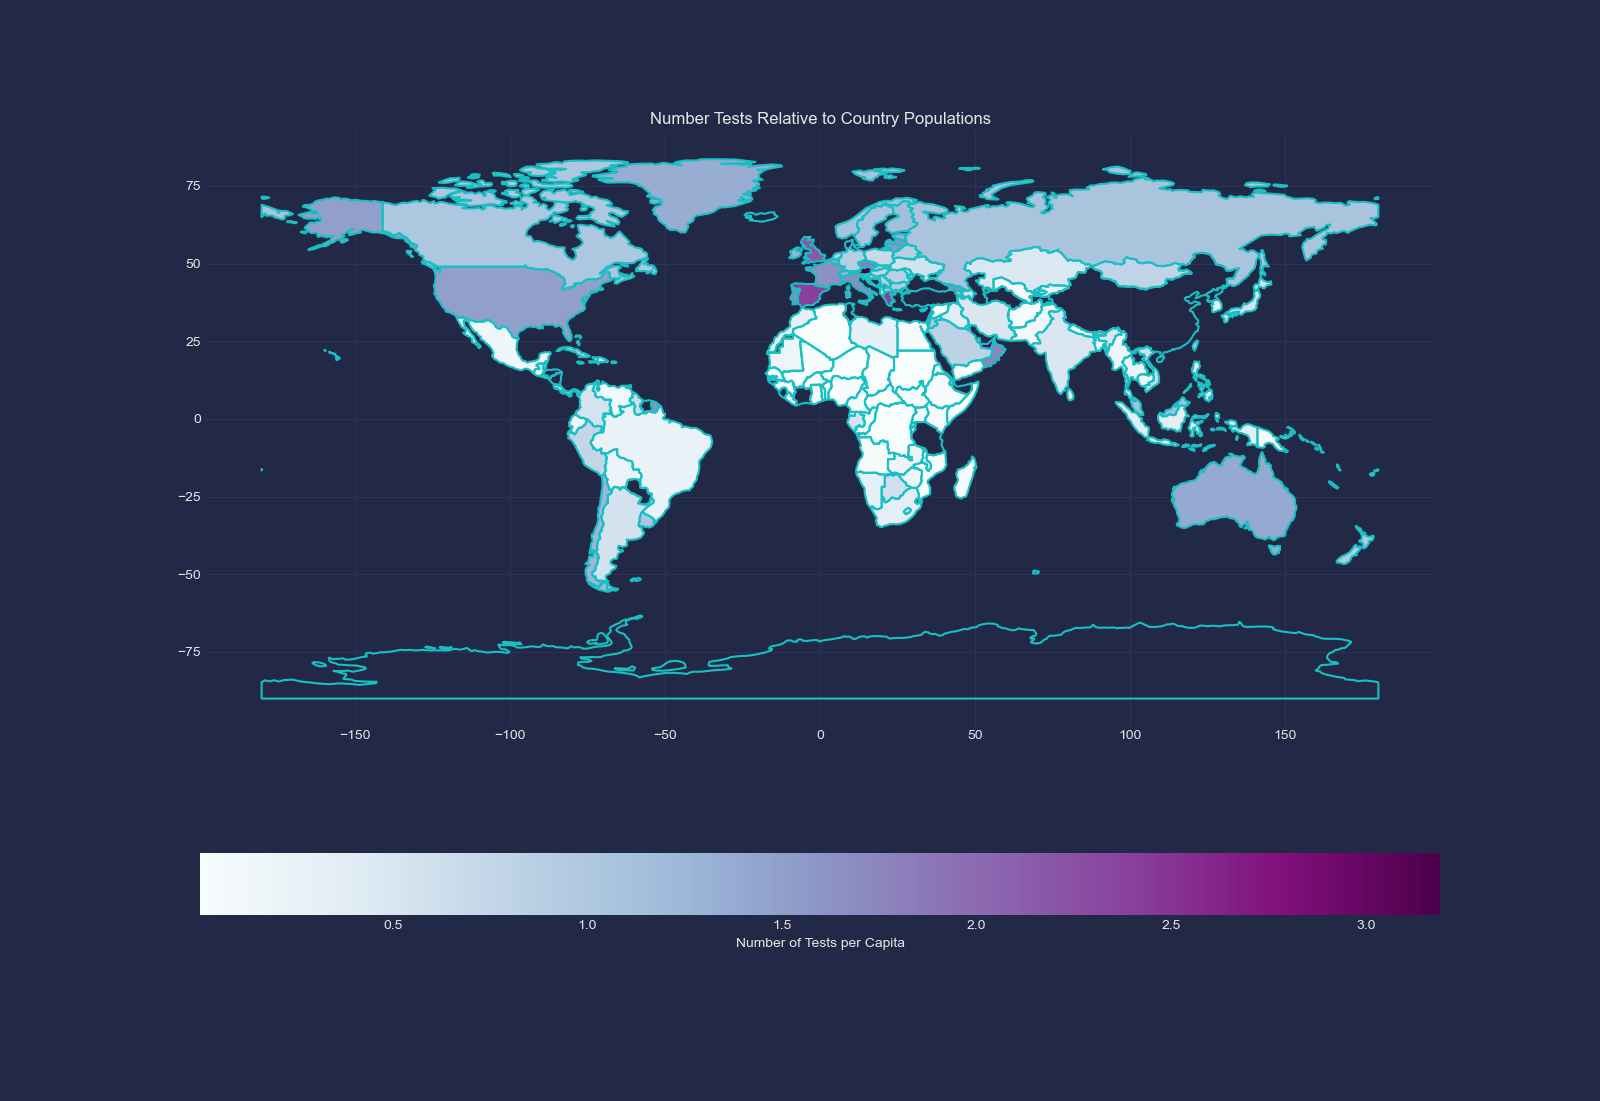
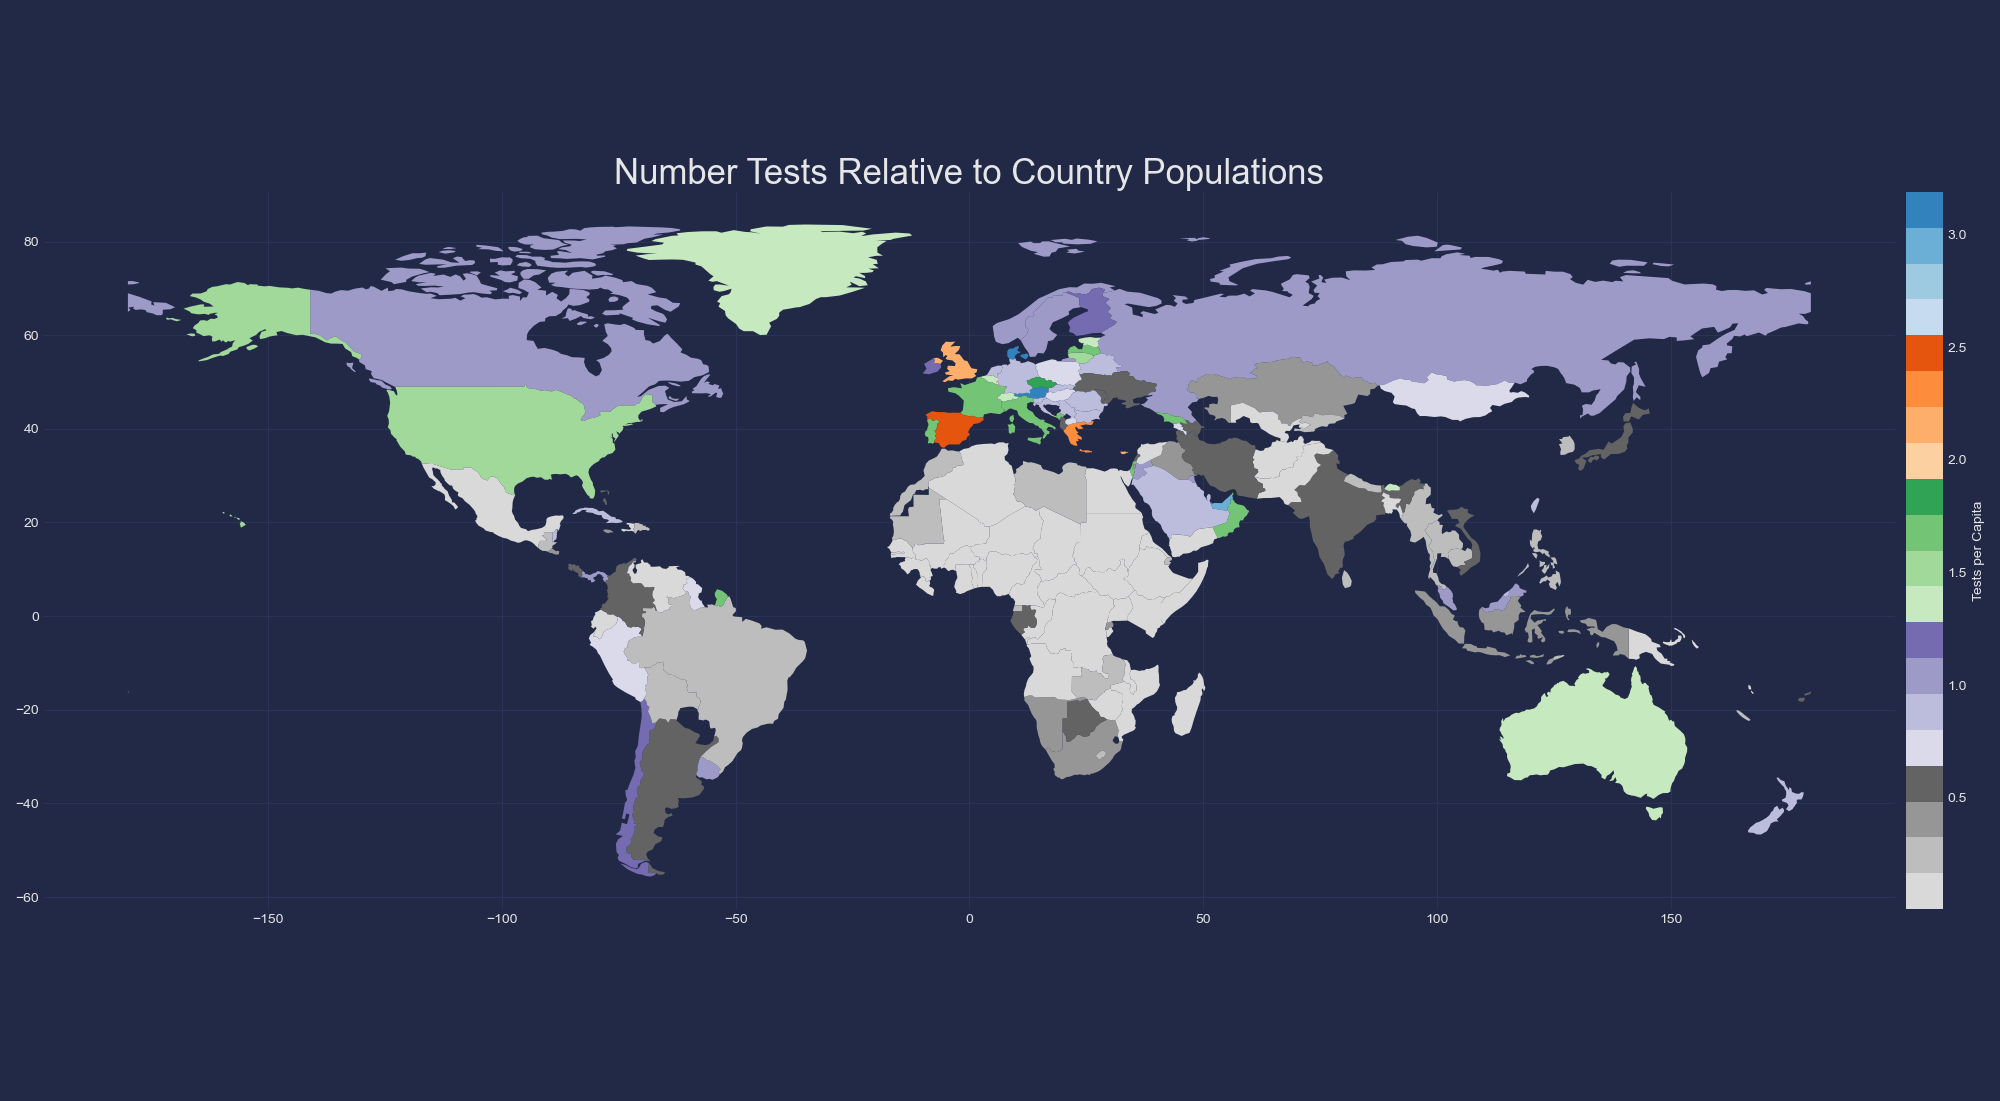
Final push to Tristan branch

diff --git a/Zebras covid.py b/Zebras covid.py
@@ -4,6 +4,7 @@ import seaborn as sns
 import matplotlib.pyplot as plt
 import warnings
 warnings.filterwarnings('ignore') 
+from mpl_toolkits.axes_grid1 import make_axes_locatable
 
 covid = pd.read_csv("C:/Users/trist/OneDrive/Explore/Portfolio work/Zebras work/covid_worldwide.csv")
 covid.head()
@@ -99,22 +100,33 @@ df = create_features(coviddf)
 
 df_worldcovid = df_world.merge(df, how="left", left_on=['name'], right_on=['Country'])
 
-#Total cases map
-ax3 = df_world["geometry"].boundary.plot(figsize=(16,16))
-df_worldcovid.plot( column="case_per_capita", ax=ax3, cmap='BuPu', legend=True, legend_kwds={"label": "Number of Cases per Capita", "orientation":"horizontal"})
-ax3.set_title("Cases of Covid Relative to Country Populations")
-#plt.show()
 
-ax4 = df_world["geometry"].boundary.plot(figsize=(16,16))
-df_worldcovid.plot( column="case_fatality_rate", ax=ax4, cmap='BuPu', legend=True, legend_kwds={"label": "Number of Deaths per Cases", "orientation":"horizontal"})
-ax4.set_title("Number of Deaths Realative to the Number of Cases in the Country")
-#plt.show()
 
-ax5 = df_world["geometry"].boundary.plot(figsize=(16,16))
-df_worldcovid.plot( column="tests_per_capita", ax=ax5, cmap='BuPu', legend=True, legend_kwds={"label": "Number of Tests per Capita", "orientation":"horizontal"})
-ax5.set_title("Number Tests Relative to Country Populations")
+
+countries = gpd.countries.plot()
+
+fig, ax7 = plt.subplots(1, 1, figsize=(40, 26))
+divider = make_axes_locatable(ax7)
+cax = divider.append_axes("right", size="2%", pad="0.5%")
+df_worldcovid.plot(column="case_per_capita", ax=ax7, cax=cax, cmap='tab20c_r', legend=True, legend_kwds={"label": "Cases per Capita"})
+ax7.set_title("Cases of Covid Relative to Country Populations", fontsize=25)
 plt.show()
 
+fig, ax8 = plt.subplots(1, 1, figsize=(40, 26))
+divider = make_axes_locatable(ax8)
+cax = divider.append_axes("right", size="2%", pad="0.5%")
+df_worldcovid.plot(column="case_fatality_rate", ax=ax8, cax=cax, cmap='BuPu', legend=True, legend_kwds={"label": "Deaths per Cases"})
+ax8.set_title("Number of Deaths Realative to the Number of Cases in the Country", fontsize=25)
+plt.show()
+
+fig, ax9 = plt.subplots(1, 1, figsize=(40, 26))
+divider = make_axes_locatable(ax9)
+cax = divider.append_axes("right", size="2%", pad="0.5%")
+df_worldcovid.plot(column= "tests_per_capita", ax=ax9, cax=cax, cmap='BuPu', legend=True, legend_kwds={"label": "Tests per Capita"})
+ax9.set_title("Number Tests Relative to Country Populations", fontsize=25)
+plt.show()
+
+#df_worldcovid.explore(column='case_per_capita',cmap='Set2')
 
 
 df.head()
